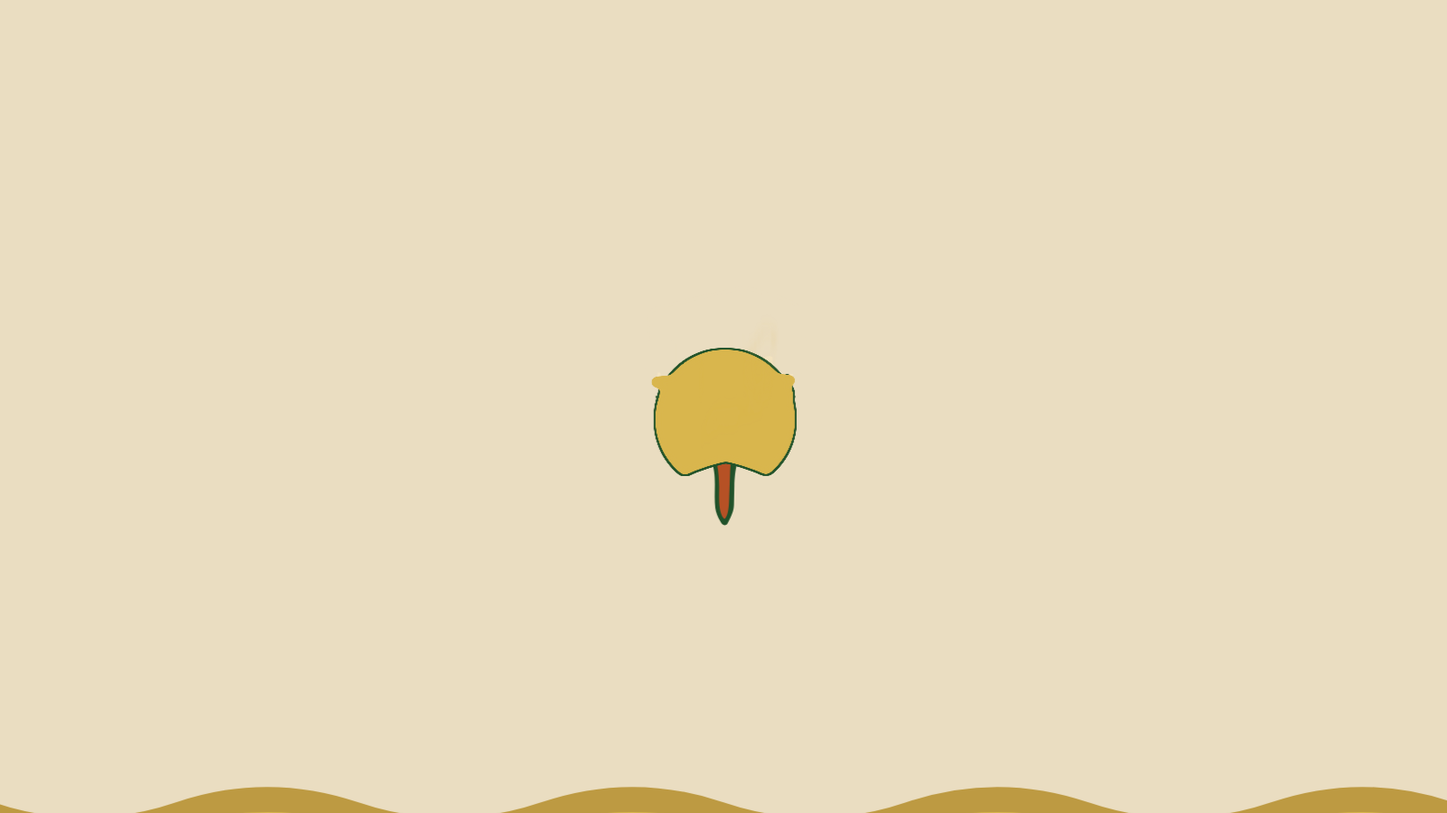
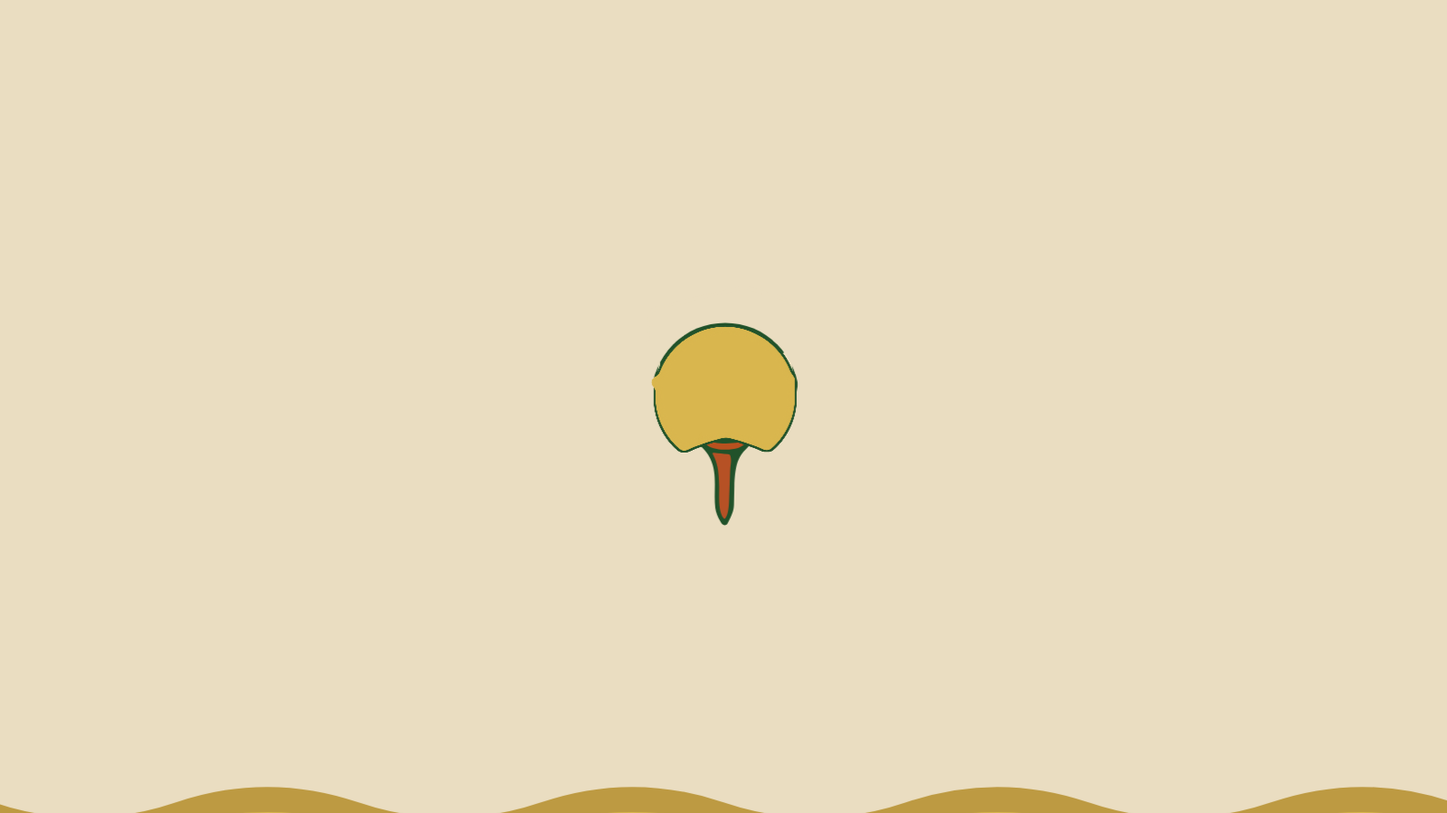
GSAP intro v4.3: white streaks fixed — ball-guard masks on the erasers
The pat-eraser band and sparkle covers could paint over the ball's green
outline before the butter front arrived, flashing cream arcs on the
shoulders during the melt. Both layers now use masks with a black
ball-guard circle so they can never touch the ball's ring.

Claude-Session: https://claude.ai/code/session_01XoixdVZHUDRa8j4FLVb79L

Changed region(s): [[0.4375, 0.3733, 0.5625, 0.5911]]

diff --git a/gsap/intro.html b/gsap/intro.html
@@ -36,9 +36,14 @@
     <clipPath id="coatClip">
       <path id="coatWave" d="M1520 400 H1968 V1128 Q1932 1146 1896 1136 L1834 1106 Q1788 1088 1744 1078 Q1700 1088 1654 1106 L1592 1136 Q1556 1146 1520 1128 Z"/>
     </clipPath>
-    <clipPath id="eraserClip">
-      <rect id="eraserRect" x="1520" y="740" width="440" height="0"/>
-    </clipPath>
+    <mask id="eraserMask">
+      <rect id="eraserRect" x="1520" y="740" width="440" height="0" fill="white"/>
+      <circle cx="1742.1" cy="1041.7" r="202" fill="black"/>
+    </mask>
+    <mask id="ballGuard">
+      <rect x="1500" y="700" width="480" height="380" fill="white"/>
+      <circle cx="1742.1" cy="1041.7" r="202" fill="black"/>
+    </mask>
     <clipPath id="sceneClip"><rect x="0" y="0" width="1600" height="900"/></clipPath>
   </defs>
   <g clip-path="url(#sceneClip)">
@@ -62,7 +67,7 @@
     <g transform="translate(105,22.3) scale(0.4)">
       <g id="staticA">
         <path d="M 1589.9157,790.3141000000002 C 1651.6502,775.7205000000001 1714.7911,761.2675000000002 1775.1195,746.5333 C 1780.452,745.2560000000001 1784.7252,744.2403000000002 1788.737,743.8849000000001 C 1796.2997,743.1895000000001 1801.6951,743.6431000000001 1809.1755,745.4553000000001 C 1829.6292,750.3462000000001 1854.1256,758.9972000000001 1876.0202,766.0337000000001 C 1889.6411,770.5345000000001 1903.1463,775.2176000000001 1916.2001,779.916 C 1921.2001,781.7152000000001 1925.9838,783.5274000000001 1930.108,786.1701000000002 C 1941.9647,794.4357000000001 1943.9614,807.5354000000001 1944.0825,816.0501000000002 L 1944.0833,885.8003000000001 C 1943.1513,897.8115000000001 1937.734,907.0703000000001 1925.8021,912.3317000000001 C 1936.9063,938.9419000000001 1941.7484,967.3612 1941.6022,997.2217 C 1940.1216,1044.2161 1922.0534,1089.1966000000002 1878.2725,1125.5189 C 1858.8662,1141.4139 1839.2726,1153.6862 1819.7725,1160.2064 C 1816.5794,1161.363 1815.5557,1162.0974 1814.1475,1165.2691 C 1810.7872,1173.7884000000001 1805.61,1179.7899000000002 1796.6633,1188.4259000000002 C 1785.4974,1199.2684000000002 1778.4077,1212.8654000000001 1774.0225,1228.5514 C 1770.0064,1243.6919 1767.4911,1267.0043 1767.1791,1287.0514 L 1766.054,1339.4578000000001 C 1765.7212,1347.2976 1764.6369,1353.4618 1762.7258,1358.6773 C 1758.5116,1370.4456 1753.8386,1381.0415 1748.6631,1389.8961000000002 C 1746.4303,1393.5927000000001 1743.2476,1394.8757 1739.9911,1394.6773 C 1736.0493,1394.3765 1733.0919,1391.7029000000002 1729.96,1386.2867 C 1721.9083,1372.2912000000001 1716.3865,1359.2504000000001 1714.9598,1347.7548000000002 C 1709.4923,1303.4640000000002 1721.6351,1256.3882 1701.741,1213.5973000000001 C 1696.1618,1201.7958 1691.8756,1196.2271 1680.366,1183.4097000000002 C 1675.6228,1178.1291 1671.0786,1172.1817 1667.5574,1164.4371 C 1666.2915,1161.2459000000001 1664.2412,1160.5035 1660.9127,1159.3161 C 1631.5529,1149.0754000000002 1606.8975,1131.7117 1586.2881,1108.221 C 1561.7086,1079.4230000000002 1547.2434,1042.9102 1544.7572,1001.0655000000002 C 1543.972,980.2563000000001 1546.2918,959.5620000000001 1552.2568,939.0029000000001 C 1552.6329,937.5388000000002 1553.257,935.6668000000001 1551.2255,934.8779000000001 C 1543.5068,931.5690000000001 1536.9046,927.1098000000001 1533.6006,918.3777000000001 C 1531.893,913.8981000000001 1530.9564,909.7794000000001 1530.9054,903.6588000000002 C 1530.7177,879.089 1531.1166,852.1984000000001 1531.4678,826.8552000000001 C 1531.4706,808.2296000000001 1547.9295,800.1690000000001 1563.5925,796.4928000000001 L 1589.9157,790.3141000000002" fill-rule="evenodd" fill="#21522a"/>
-        <g clip-path="url(#eraserClip)"><g id="eraser" fill="#EADDC1" stroke="#EADDC1" stroke-width="9"><path d="M 1589.9157,790.3141000000002 C 1651.6502,775.7205000000001 1714.7911,761.2675000000002 1775.1195,746.5333 C 1780.452,745.2560000000001 1784.7252,744.2403000000002 1788.737,743.8849000000001 C 1796.2997,743.1895000000001 1801.6951,743.6431000000001 1809.1755,745.4553000000001 C 1829.6292,750.3462000000001 1854.1256,758.9972000000001 1876.0202,766.0337000000001 C 1889.6411,770.5345000000001 1903.1463,775.2176000000001 1916.2001,779.916 C 1921.2001,781.7152000000001 1925.9838,783.5274000000001 1930.108,786.1701000000002 C 1941.9647,794.4357000000001 1943.9614,807.5354000000001 1944.0825,816.0501000000002 L 1944.0833,885.8003000000001 C 1943.1513,897.8115000000001 1937.734,907.0703000000001 1925.8021,912.3317000000001 C 1936.9063,938.9419000000001 1941.7484,967.3612 1941.6022,997.2217 C 1940.1216,1044.2161 1922.0534,1089.1966000000002 1878.2725,1125.5189 C 1858.8662,1141.4139 1839.2726,1153.6862 1819.7725,1160.2064 C 1816.5794,1161.363 1815.5557,1162.0974 1814.1475,1165.2691 C 1810.7872,1173.7884000000001 1805.61,1179.7899000000002 1796.6633,1188.4259000000002 C 1785.4974,1199.2684000000002 1778.4077,1212.8654000000001 1774.0225,1228.5514 C 1770.0064,1243.6919 1767.4911,1267.0043 1767.1791,1287.0514 L 1766.054,1339.4578000000001 C 1765.7212,1347.2976 1764.6369,1353.4618 1762.7258,1358.6773 C 1758.5116,1370.4456 1753.8386,1381.0415 1748.6631,1389.8961000000002 C 1746.4303,1393.5927000000001 1743.2476,1394.8757 1739.9911,1394.6773 C 1736.0493,1394.3765 1733.0919,1391.7029000000002 1729.96,1386.2867 C 1721.9083,1372.2912000000001 1716.3865,1359.2504000000001 1714.9598,1347.7548000000002 C 1709.4923,1303.4640000000002 1721.6351,1256.3882 1701.741,1213.5973000000001 C 1696.1618,1201.7958 1691.8756,1196.2271 1680.366,1183.4097000000002 C 1675.6228,1178.1291 1671.0786,1172.1817 1667.5574,1164.4371 C 1666.2915,1161.2459000000001 1664.2412,1160.5035 1660.9127,1159.3161 C 1631.5529,1149.0754000000002 1606.8975,1131.7117 1586.2881,1108.221 C 1561.7086,1079.4230000000002 1547.2434,1042.9102 1544.7572,1001.0655000000002 C 1543.972,980.2563000000001 1546.2918,959.5620000000001 1552.2568,939.0029000000001 C 1552.6329,937.5388000000002 1553.257,935.6668000000001 1551.2255,934.8779000000001 C 1543.5068,931.5690000000001 1536.9046,927.1098000000001 1533.6006,918.3777000000001 C 1531.893,913.8981000000001 1530.9564,909.7794000000001 1530.9054,903.6588000000002 C 1530.7177,879.089 1531.1166,852.1984000000001 1531.4678,826.8552000000001 C 1531.4706,808.2296000000001 1547.9295,800.1690000000001 1563.5925,796.4928000000001 L 1589.9157,790.3141000000002" fill-rule="evenodd"/></g></g>
+        <g mask="url(#eraserMask)"><g id="eraser" fill="#EADDC1" stroke="#EADDC1" stroke-width="9"><path d="M 1589.9157,790.3141000000002 C 1651.6502,775.7205000000001 1714.7911,761.2675000000002 1775.1195,746.5333 C 1780.452,745.2560000000001 1784.7252,744.2403000000002 1788.737,743.8849000000001 C 1796.2997,743.1895000000001 1801.6951,743.6431000000001 1809.1755,745.4553000000001 C 1829.6292,750.3462000000001 1854.1256,758.9972000000001 1876.0202,766.0337000000001 C 1889.6411,770.5345000000001 1903.1463,775.2176000000001 1916.2001,779.916 C 1921.2001,781.7152000000001 1925.9838,783.5274000000001 1930.108,786.1701000000002 C 1941.9647,794.4357000000001 1943.9614,807.5354000000001 1944.0825,816.0501000000002 L 1944.0833,885.8003000000001 C 1943.1513,897.8115000000001 1937.734,907.0703000000001 1925.8021,912.3317000000001 C 1936.9063,938.9419000000001 1941.7484,967.3612 1941.6022,997.2217 C 1940.1216,1044.2161 1922.0534,1089.1966000000002 1878.2725,1125.5189 C 1858.8662,1141.4139 1839.2726,1153.6862 1819.7725,1160.2064 C 1816.5794,1161.363 1815.5557,1162.0974 1814.1475,1165.2691 C 1810.7872,1173.7884000000001 1805.61,1179.7899000000002 1796.6633,1188.4259000000002 C 1785.4974,1199.2684000000002 1778.4077,1212.8654000000001 1774.0225,1228.5514 C 1770.0064,1243.6919 1767.4911,1267.0043 1767.1791,1287.0514 L 1766.054,1339.4578000000001 C 1765.7212,1347.2976 1764.6369,1353.4618 1762.7258,1358.6773 C 1758.5116,1370.4456 1753.8386,1381.0415 1748.6631,1389.8961000000002 C 1746.4303,1393.5927000000001 1743.2476,1394.8757 1739.9911,1394.6773 C 1736.0493,1394.3765 1733.0919,1391.7029000000002 1729.96,1386.2867 C 1721.9083,1372.2912000000001 1716.3865,1359.2504000000001 1714.9598,1347.7548000000002 C 1709.4923,1303.4640000000002 1721.6351,1256.3882 1701.741,1213.5973000000001 C 1696.1618,1201.7958 1691.8756,1196.2271 1680.366,1183.4097000000002 C 1675.6228,1178.1291 1671.0786,1172.1817 1667.5574,1164.4371 C 1666.2915,1161.2459000000001 1664.2412,1160.5035 1660.9127,1159.3161 C 1631.5529,1149.0754000000002 1606.8975,1131.7117 1586.2881,1108.221 C 1561.7086,1079.4230000000002 1547.2434,1042.9102 1544.7572,1001.0655000000002 C 1543.972,980.2563000000001 1546.2918,959.5620000000001 1552.2568,939.0029000000001 C 1552.6329,937.5388000000002 1553.257,935.6668000000001 1551.2255,934.8779000000001 C 1543.5068,931.5690000000001 1536.9046,927.1098000000001 1533.6006,918.3777000000001 C 1531.893,913.8981000000001 1530.9564,909.7794000000001 1530.9054,903.6588000000002 C 1530.7177,879.089 1531.1166,852.1984000000001 1531.4678,826.8552000000001 C 1531.4706,808.2296000000001 1547.9295,800.1690000000001 1563.5925,796.4928000000001 L 1589.9157,790.3141000000002" fill-rule="evenodd"/></g></g>
         <path d="M 1563.8427,947.7401000000001 C 1563.9613,950.7091000000001 1563.2437,957.1421000000001 1562.7804,963.7199000000002 C 1561.9445,977.1824000000001 1564.9883,988.7509000000001 1577.4605,991.6267000000001 C 1590.4948,994.1767000000001 1596.3969,985.3102000000001 1596.9533,973.7043000000001 C 1597.2423,968.2746000000001 1596.8611,963.8794000000001 1596.7655,960.0167000000001 C 1596.675,954.9418000000001 1600.9489,954.3788000000001 1604.6875,956.3603000000002 C 1609.4673,958.9565000000001 1614.5722,962.0177000000001 1619.3184,965.0513000000001 C 1623.7984,967.9154000000001 1628.1748,969.9671000000001 1630.4601,974.9558000000001 C 1636.3338,987.7798000000001 1626.0503,1008.5450000000001 1623.8609,1022.2204000000002 C 1621.9644,1034.334 1624.6791,1044.2402000000002 1632.0169,1050.3925000000002 C 1642.9391,1059.0734000000002 1655.5612,1054.5294000000001 1660.839,1044.6915000000001 C 1664.5873,1037.4657000000002 1663.9835,1028.2608 1663.1433,1020.2982000000002 C 1662.1594,1012.6577000000001 1661.1226,1009.2230000000002 1660.0504,1004.1266000000002 C 1658.9052,998.4397000000001 1662.9678,996.5921000000001 1667.8786,996.6267000000001 C 1684.7175,996.4796000000001 1681.2672,988.7742000000001 1687.4522,978.1255000000001 C 1689.2206,975.0817000000001 1692.0831,973.2950000000001 1695.7225,974.3603000000002 C 1700.2695,975.8485000000001 1701.1366,981.3800000000001 1701.4882,985.8916000000002 C 1702.1991,995.0087000000001 1700.1917,1003.7510000000001 1702.1449,1012.6107000000001 C 1704.1989,1023.7052000000001 1710.6525,1030.5327000000002 1719.1599,1032.2987 C 1728.6849,1033.8575 1735.2924,1029.8346000000001 1740.1602,1023.7205000000001 C 1748.1353,1012.0097000000001 1740.6128,997.6197000000001 1742.4578,984.3456000000001 C 1744.8242,969.0932000000001 1754.2389,960.2582000000001 1768.7653,956.4155000000001 C 1797.7771,948.7379000000001 1825.6176,940.9664000000001 1852.2868,932.9705000000001 C 1859.0913,930.9508000000001 1862.6032,930.6656000000002 1866.7243,931.3768000000001 C 1872.2279,932.4744000000001 1877.6149,936.0095000000001 1883.6929,935.6892000000001 C 1895.9868,934.6834000000001 1897.4171,922.2147000000001 1905.912,919.0484000000001 C 1911.4705,917.1617000000001 1914.3573,921.0993000000001 1915.9432,924.3923000000001 C 1921.2562,935.8615000000001 1924.0374,950.0960000000001 1925.9751,963.2995000000001 C 1928.069,978.0340000000001 1928.3814,992.7682000000001 1927.0534,1006.2373000000001 C 1926.3971,1011.7251000000001 1925.3214,1015.8561000000001 1923.8264,1019.0150000000001 C 1923.3455,1020.0692000000001 1922.2651,1021.3717000000001 1920.7721,1020.4873000000001 C 1919.9514,1019.9482 1920.0453,1019.0694000000001 1920.0689,1017.9563 C 1920.2797,1012.3159 1920.2091,1007.1906000000001 1919.9982,1001.9482000000002 C 1919.8848,999.7448 1919.3732,998.7841000000001 1918.2169,998.7136000000002 C 1916.5391,998.7107000000001 1915.3871,1000.0314000000001 1914.373,1002.2294 C 1911.0374,1009.3622000000001 1908.451,1018.4404000000001 1904.7166,1025.8077 C 1900.906,1033.2171 1894.8319,1036.5255000000002 1891.1228,1045.2613000000001 C 1888.0418,1052.4253 1886.2476,1058.5509000000002 1880.435,1064.949 C 1876.9035,1068.7829000000002 1873.4856,1071.5186 1868.8569,1075.0741 C 1860.7479,1081.2383 1852.9197,1087.6370000000002 1843.9666,1094.9024000000002 C 1842.3629,1096.1888000000001 1837.4939,1100.2423000000001 1833.3258,1100.8558 C 1824.9678,1101.8618000000001 1821.6227,1097.9766000000002 1811.2005,1103.2933 C 1806.0274,1106.0454 1802.6433,1108.8149 1798.8256,1112.4339 C 1793.2363,1117.8631 1787.4472,1121.6453000000001 1780.638,1124.1058 C 1770.7079,1127.9039000000002 1761.7876,1126.0178 1750.7313,1126.6371000000001 C 1743.9423,1127.286 1736.919,1130.9810000000002 1728.747,1132.3093000000001 C 1725.3643,1132.7546000000002 1722.4265,1132.4031 1718.2468,1130.7624 C 1711.9345,1128.2699000000002 1706.6531,1125.9183 1698.7467,1125.6059 C 1693.9891,1125.4302000000002 1688.2931,1126.7077000000002 1684.403,1128.1372000000001 C 1679.0151,1130.2255 1675.4346,1132.5908000000002 1668.5595,1132.919 C 1659.5702,1133.0483000000002 1647.8396,1127.3268 1639.1215,1121.9968000000001 C 1635.5293,1119.9556000000002 1632.7155,1118.5125 1629.6528,1117.8251 C 1625.798,1116.9021000000002 1623.4483,1118.4807 1625.7623,1122.3251 C 1627.4971,1125.1371000000001 1625.1126,1125.4721000000002 1622.481,1123.8252000000002 C 1586.6802,1101.8173000000002 1566.6296,1060.3288000000002 1559.1056,1019.9496000000001 C 1555.1408,997.4020000000002 1555.3659,975.7918000000002 1560.1051,953.6985000000001 C 1560.4021,952.3124000000001 1561.149,948.2798000000001 1561.8986,946.9850000000001 C 1562.5208,945.8678000000001 1563.7859,945.8369000000001 1563.8427,947.7401000000001" fill-rule="evenodd" fill="#f3e4c3"/>
         <path d="M 1664.8947,1146.2297 C 1663.6774,1148.5912 1657.6946,1147.1705000000002 1651.5326,1144.1054000000001 C 1645.3709,1141.0403000000001 1641.3633,1137.4916 1642.5808,1135.13 C 1643.7984,1132.7685000000001 1649.7805,1133.3385 1655.9423,1136.4034000000001 C 1662.1041,1139.4685000000002 1666.112,1143.8681000000001 1664.8947,1146.2297" fill-rule="evenodd" fill="#f6e2c8"/>
 <path d="M 1711.8672,1145.0961000000002 C 1711.3466,1147.7842 1705.2644,1148.9518 1698.2824,1147.7037 C 1691.3007,1146.4553 1686.0628,1143.2640000000001 1686.5836,1140.5754000000002 C 1687.1043,1137.8873 1693.1863,1136.7197 1700.1683,1137.9678000000001 C 1707.15,1139.2165 1712.388,1142.4077000000002 1711.8672,1145.0961000000002" fill-rule="evenodd" fill="#f6e2c8"/>
@@ -95,7 +100,7 @@
 <path d="M 1760.653,1114.9862 C 1759.7319,1112.5087 1764.159,1108.4917 1770.5413,1106.0142 C 1776.9237,1103.5371 1782.8439,1103.5371 1783.7649,1106.0148000000002 C 1784.6858,1108.4923000000001 1780.2584,1112.509 1773.8762,1114.9868000000001 C 1767.494,1117.4639000000002 1761.5735,1117.4639000000002 1760.653,1114.9862" fill-rule="evenodd" fill="#244e29"/>
         <path d="M 1711.9911,1196.1174 C 1709.0892,1195.8756 1707.1549,1195.392 1707.6386,1198.2939000000001 C 1707.8803,1199.5028000000002 1708.3638,1200.7118 1709.0892,1201.9208 C 1715.1344,1213.7693000000002 1718.0363,1222.2325 1720.9378,1235.2900000000002 C 1723.8394,1248.8314 1725.0486,1269.8684 1725.5322,1285.1021 C 1726.2575,1305.8976 1721.4214,1358.1276 1737.8643,1375.7793000000001 C 1739.0733,1376.9885000000002 1740.524,1377.9557000000002 1741.9749,1376.5049000000001 C 1749.2289,1368.7669 1751.6472,1349.9060000000002 1752.6144,1332.0126 C 1753.8233,1302.9958000000001 1754.5487,1273.7371 1755.7577,1244.4788 C 1756.7252,1228.2776000000001 1759.3849,1220.0563000000002 1757.2088,1208.4496000000001 C 1755.7577,1202.1626 1755.0324,1199.9864000000002 1748.987,1199.7446 C 1735.446,1199.0193000000002 1724.8068,1197.3267 1711.9911,1196.1174" fill-rule="evenodd" fill="#b65125"/>
 <path d="M 1684.9434,1162.7400000000002 C 1686.1527,1169.7524 1692.6814,1175.7976 1698.7266,1179.183 C 1717.1036,1189.0969 1756.5182,1190.064 1777.0717,1183.0517 C 1786.0184,1180.1502 1796.8997,1173.1378 1797.6251,1165.1580000000001 C 1794.9655,1165.4001 1769.8175,1170.236 1743.7025,1170.7196000000001 C 1720.7308,1170.7196000000001 1706.4644,1167.5762 1684.9434,1162.7400000000002" fill-rule="evenodd" fill="#b9511f"/>
-        <g id="hornCover" fill="#EADDC1" opacity="0">
+        <g id="hornCover" fill="#EADDC1" opacity="0" mask="url(#ballGuard)">
           <rect x="1872" y="876" width="92" height="104" rx="14"/>
           <rect x="1522" y="886" width="84" height="90" rx="14"/>
         </g>

diff --git a/gsap/intro_artifact.html b/gsap/intro_artifact.html
@@ -29,9 +29,14 @@
     <clipPath id="coatClip">
       <path id="coatWave" d="M1520 400 H1968 V1128 Q1932 1146 1896 1136 L1834 1106 Q1788 1088 1744 1078 Q1700 1088 1654 1106 L1592 1136 Q1556 1146 1520 1128 Z"/>
     </clipPath>
-    <clipPath id="eraserClip">
-      <rect id="eraserRect" x="1520" y="740" width="440" height="0"/>
-    </clipPath>
+    <mask id="eraserMask">
+      <rect id="eraserRect" x="1520" y="740" width="440" height="0" fill="white"/>
+      <circle cx="1742.1" cy="1041.7" r="202" fill="black"/>
+    </mask>
+    <mask id="ballGuard">
+      <rect x="1500" y="700" width="480" height="380" fill="white"/>
+      <circle cx="1742.1" cy="1041.7" r="202" fill="black"/>
+    </mask>
     <clipPath id="sceneClip"><rect x="0" y="0" width="1600" height="900"/></clipPath>
   </defs>
   <g clip-path="url(#sceneClip)">
@@ -55,7 +60,7 @@
     <g transform="translate(105,22.3) scale(0.4)">
       <g id="staticA">
         <path d="M 1589.9157,790.3141000000002 C 1651.6502,775.7205000000001 1714.7911,761.2675000000002 1775.1195,746.5333 C 1780.452,745.2560000000001 1784.7252,744.2403000000002 1788.737,743.8849000000001 C 1796.2997,743.1895000000001 1801.6951,743.6431000000001 1809.1755,745.4553000000001 C 1829.6292,750.3462000000001 1854.1256,758.9972000000001 1876.0202,766.0337000000001 C 1889.6411,770.5345000000001 1903.1463,775.2176000000001 1916.2001,779.916 C 1921.2001,781.7152000000001 1925.9838,783.5274000000001 1930.108,786.1701000000002 C 1941.9647,794.4357000000001 1943.9614,807.5354000000001 1944.0825,816.0501000000002 L 1944.0833,885.8003000000001 C 1943.1513,897.8115000000001 1937.734,907.0703000000001 1925.8021,912.3317000000001 C 1936.9063,938.9419000000001 1941.7484,967.3612 1941.6022,997.2217 C 1940.1216,1044.2161 1922.0534,1089.1966000000002 1878.2725,1125.5189 C 1858.8662,1141.4139 1839.2726,1153.6862 1819.7725,1160.2064 C 1816.5794,1161.363 1815.5557,1162.0974 1814.1475,1165.2691 C 1810.7872,1173.7884000000001 1805.61,1179.7899000000002 1796.6633,1188.4259000000002 C 1785.4974,1199.2684000000002 1778.4077,1212.8654000000001 1774.0225,1228.5514 C 1770.0064,1243.6919 1767.4911,1267.0043 1767.1791,1287.0514 L 1766.054,1339.4578000000001 C 1765.7212,1347.2976 1764.6369,1353.4618 1762.7258,1358.6773 C 1758.5116,1370.4456 1753.8386,1381.0415 1748.6631,1389.8961000000002 C 1746.4303,1393.5927000000001 1743.2476,1394.8757 1739.9911,1394.6773 C 1736.0493,1394.3765 1733.0919,1391.7029000000002 1729.96,1386.2867 C 1721.9083,1372.2912000000001 1716.3865,1359.2504000000001 1714.9598,1347.7548000000002 C 1709.4923,1303.4640000000002 1721.6351,1256.3882 1701.741,1213.5973000000001 C 1696.1618,1201.7958 1691.8756,1196.2271 1680.366,1183.4097000000002 C 1675.6228,1178.1291 1671.0786,1172.1817 1667.5574,1164.4371 C 1666.2915,1161.2459000000001 1664.2412,1160.5035 1660.9127,1159.3161 C 1631.5529,1149.0754000000002 1606.8975,1131.7117 1586.2881,1108.221 C 1561.7086,1079.4230000000002 1547.2434,1042.9102 1544.7572,1001.0655000000002 C 1543.972,980.2563000000001 1546.2918,959.5620000000001 1552.2568,939.0029000000001 C 1552.6329,937.5388000000002 1553.257,935.6668000000001 1551.2255,934.8779000000001 C 1543.5068,931.5690000000001 1536.9046,927.1098000000001 1533.6006,918.3777000000001 C 1531.893,913.8981000000001 1530.9564,909.7794000000001 1530.9054,903.6588000000002 C 1530.7177,879.089 1531.1166,852.1984000000001 1531.4678,826.8552000000001 C 1531.4706,808.2296000000001 1547.9295,800.1690000000001 1563.5925,796.4928000000001 L 1589.9157,790.3141000000002" fill-rule="evenodd" fill="#21522a"/>
-        <g clip-path="url(#eraserClip)"><g id="eraser" fill="#EADDC1" stroke="#EADDC1" stroke-width="9"><path d="M 1589.9157,790.3141000000002 C 1651.6502,775.7205000000001 1714.7911,761.2675000000002 1775.1195,746.5333 C 1780.452,745.2560000000001 1784.7252,744.2403000000002 1788.737,743.8849000000001 C 1796.2997,743.1895000000001 1801.6951,743.6431000000001 1809.1755,745.4553000000001 C 1829.6292,750.3462000000001 1854.1256,758.9972000000001 1876.0202,766.0337000000001 C 1889.6411,770.5345000000001 1903.1463,775.2176000000001 1916.2001,779.916 C 1921.2001,781.7152000000001 1925.9838,783.5274000000001 1930.108,786.1701000000002 C 1941.9647,794.4357000000001 1943.9614,807.5354000000001 1944.0825,816.0501000000002 L 1944.0833,885.8003000000001 C 1943.1513,897.8115000000001 1937.734,907.0703000000001 1925.8021,912.3317000000001 C 1936.9063,938.9419000000001 1941.7484,967.3612 1941.6022,997.2217 C 1940.1216,1044.2161 1922.0534,1089.1966000000002 1878.2725,1125.5189 C 1858.8662,1141.4139 1839.2726,1153.6862 1819.7725,1160.2064 C 1816.5794,1161.363 1815.5557,1162.0974 1814.1475,1165.2691 C 1810.7872,1173.7884000000001 1805.61,1179.7899000000002 1796.6633,1188.4259000000002 C 1785.4974,1199.2684000000002 1778.4077,1212.8654000000001 1774.0225,1228.5514 C 1770.0064,1243.6919 1767.4911,1267.0043 1767.1791,1287.0514 L 1766.054,1339.4578000000001 C 1765.7212,1347.2976 1764.6369,1353.4618 1762.7258,1358.6773 C 1758.5116,1370.4456 1753.8386,1381.0415 1748.6631,1389.8961000000002 C 1746.4303,1393.5927000000001 1743.2476,1394.8757 1739.9911,1394.6773 C 1736.0493,1394.3765 1733.0919,1391.7029000000002 1729.96,1386.2867 C 1721.9083,1372.2912000000001 1716.3865,1359.2504000000001 1714.9598,1347.7548000000002 C 1709.4923,1303.4640000000002 1721.6351,1256.3882 1701.741,1213.5973000000001 C 1696.1618,1201.7958 1691.8756,1196.2271 1680.366,1183.4097000000002 C 1675.6228,1178.1291 1671.0786,1172.1817 1667.5574,1164.4371 C 1666.2915,1161.2459000000001 1664.2412,1160.5035 1660.9127,1159.3161 C 1631.5529,1149.0754000000002 1606.8975,1131.7117 1586.2881,1108.221 C 1561.7086,1079.4230000000002 1547.2434,1042.9102 1544.7572,1001.0655000000002 C 1543.972,980.2563000000001 1546.2918,959.5620000000001 1552.2568,939.0029000000001 C 1552.6329,937.5388000000002 1553.257,935.6668000000001 1551.2255,934.8779000000001 C 1543.5068,931.5690000000001 1536.9046,927.1098000000001 1533.6006,918.3777000000001 C 1531.893,913.8981000000001 1530.9564,909.7794000000001 1530.9054,903.6588000000002 C 1530.7177,879.089 1531.1166,852.1984000000001 1531.4678,826.8552000000001 C 1531.4706,808.2296000000001 1547.9295,800.1690000000001 1563.5925,796.4928000000001 L 1589.9157,790.3141000000002" fill-rule="evenodd"/></g></g>
+        <g mask="url(#eraserMask)"><g id="eraser" fill="#EADDC1" stroke="#EADDC1" stroke-width="9"><path d="M 1589.9157,790.3141000000002 C 1651.6502,775.7205000000001 1714.7911,761.2675000000002 1775.1195,746.5333 C 1780.452,745.2560000000001 1784.7252,744.2403000000002 1788.737,743.8849000000001 C 1796.2997,743.1895000000001 1801.6951,743.6431000000001 1809.1755,745.4553000000001 C 1829.6292,750.3462000000001 1854.1256,758.9972000000001 1876.0202,766.0337000000001 C 1889.6411,770.5345000000001 1903.1463,775.2176000000001 1916.2001,779.916 C 1921.2001,781.7152000000001 1925.9838,783.5274000000001 1930.108,786.1701000000002 C 1941.9647,794.4357000000001 1943.9614,807.5354000000001 1944.0825,816.0501000000002 L 1944.0833,885.8003000000001 C 1943.1513,897.8115000000001 1937.734,907.0703000000001 1925.8021,912.3317000000001 C 1936.9063,938.9419000000001 1941.7484,967.3612 1941.6022,997.2217 C 1940.1216,1044.2161 1922.0534,1089.1966000000002 1878.2725,1125.5189 C 1858.8662,1141.4139 1839.2726,1153.6862 1819.7725,1160.2064 C 1816.5794,1161.363 1815.5557,1162.0974 1814.1475,1165.2691 C 1810.7872,1173.7884000000001 1805.61,1179.7899000000002 1796.6633,1188.4259000000002 C 1785.4974,1199.2684000000002 1778.4077,1212.8654000000001 1774.0225,1228.5514 C 1770.0064,1243.6919 1767.4911,1267.0043 1767.1791,1287.0514 L 1766.054,1339.4578000000001 C 1765.7212,1347.2976 1764.6369,1353.4618 1762.7258,1358.6773 C 1758.5116,1370.4456 1753.8386,1381.0415 1748.6631,1389.8961000000002 C 1746.4303,1393.5927000000001 1743.2476,1394.8757 1739.9911,1394.6773 C 1736.0493,1394.3765 1733.0919,1391.7029000000002 1729.96,1386.2867 C 1721.9083,1372.2912000000001 1716.3865,1359.2504000000001 1714.9598,1347.7548000000002 C 1709.4923,1303.4640000000002 1721.6351,1256.3882 1701.741,1213.5973000000001 C 1696.1618,1201.7958 1691.8756,1196.2271 1680.366,1183.4097000000002 C 1675.6228,1178.1291 1671.0786,1172.1817 1667.5574,1164.4371 C 1666.2915,1161.2459000000001 1664.2412,1160.5035 1660.9127,1159.3161 C 1631.5529,1149.0754000000002 1606.8975,1131.7117 1586.2881,1108.221 C 1561.7086,1079.4230000000002 1547.2434,1042.9102 1544.7572,1001.0655000000002 C 1543.972,980.2563000000001 1546.2918,959.5620000000001 1552.2568,939.0029000000001 C 1552.6329,937.5388000000002 1553.257,935.6668000000001 1551.2255,934.8779000000001 C 1543.5068,931.5690000000001 1536.9046,927.1098000000001 1533.6006,918.3777000000001 C 1531.893,913.8981000000001 1530.9564,909.7794000000001 1530.9054,903.6588000000002 C 1530.7177,879.089 1531.1166,852.1984000000001 1531.4678,826.8552000000001 C 1531.4706,808.2296000000001 1547.9295,800.1690000000001 1563.5925,796.4928000000001 L 1589.9157,790.3141000000002" fill-rule="evenodd"/></g></g>
         <path d="M 1563.8427,947.7401000000001 C 1563.9613,950.7091000000001 1563.2437,957.1421000000001 1562.7804,963.7199000000002 C 1561.9445,977.1824000000001 1564.9883,988.7509000000001 1577.4605,991.6267000000001 C 1590.4948,994.1767000000001 1596.3969,985.3102000000001 1596.9533,973.7043000000001 C 1597.2423,968.2746000000001 1596.8611,963.8794000000001 1596.7655,960.0167000000001 C 1596.675,954.9418000000001 1600.9489,954.3788000000001 1604.6875,956.3603000000002 C 1609.4673,958.9565000000001 1614.5722,962.0177000000001 1619.3184,965.0513000000001 C 1623.7984,967.9154000000001 1628.1748,969.9671000000001 1630.4601,974.9558000000001 C 1636.3338,987.7798000000001 1626.0503,1008.5450000000001 1623.8609,1022.2204000000002 C 1621.9644,1034.334 1624.6791,1044.2402000000002 1632.0169,1050.3925000000002 C 1642.9391,1059.0734000000002 1655.5612,1054.5294000000001 1660.839,1044.6915000000001 C 1664.5873,1037.4657000000002 1663.9835,1028.2608 1663.1433,1020.2982000000002 C 1662.1594,1012.6577000000001 1661.1226,1009.2230000000002 1660.0504,1004.1266000000002 C 1658.9052,998.4397000000001 1662.9678,996.5921000000001 1667.8786,996.6267000000001 C 1684.7175,996.4796000000001 1681.2672,988.7742000000001 1687.4522,978.1255000000001 C 1689.2206,975.0817000000001 1692.0831,973.2950000000001 1695.7225,974.3603000000002 C 1700.2695,975.8485000000001 1701.1366,981.3800000000001 1701.4882,985.8916000000002 C 1702.1991,995.0087000000001 1700.1917,1003.7510000000001 1702.1449,1012.6107000000001 C 1704.1989,1023.7052000000001 1710.6525,1030.5327000000002 1719.1599,1032.2987 C 1728.6849,1033.8575 1735.2924,1029.8346000000001 1740.1602,1023.7205000000001 C 1748.1353,1012.0097000000001 1740.6128,997.6197000000001 1742.4578,984.3456000000001 C 1744.8242,969.0932000000001 1754.2389,960.2582000000001 1768.7653,956.4155000000001 C 1797.7771,948.7379000000001 1825.6176,940.9664000000001 1852.2868,932.9705000000001 C 1859.0913,930.9508000000001 1862.6032,930.6656000000002 1866.7243,931.3768000000001 C 1872.2279,932.4744000000001 1877.6149,936.0095000000001 1883.6929,935.6892000000001 C 1895.9868,934.6834000000001 1897.4171,922.2147000000001 1905.912,919.0484000000001 C 1911.4705,917.1617000000001 1914.3573,921.0993000000001 1915.9432,924.3923000000001 C 1921.2562,935.8615000000001 1924.0374,950.0960000000001 1925.9751,963.2995000000001 C 1928.069,978.0340000000001 1928.3814,992.7682000000001 1927.0534,1006.2373000000001 C 1926.3971,1011.7251000000001 1925.3214,1015.8561000000001 1923.8264,1019.0150000000001 C 1923.3455,1020.0692000000001 1922.2651,1021.3717000000001 1920.7721,1020.4873000000001 C 1919.9514,1019.9482 1920.0453,1019.0694000000001 1920.0689,1017.9563 C 1920.2797,1012.3159 1920.2091,1007.1906000000001 1919.9982,1001.9482000000002 C 1919.8848,999.7448 1919.3732,998.7841000000001 1918.2169,998.7136000000002 C 1916.5391,998.7107000000001 1915.3871,1000.0314000000001 1914.373,1002.2294 C 1911.0374,1009.3622000000001 1908.451,1018.4404000000001 1904.7166,1025.8077 C 1900.906,1033.2171 1894.8319,1036.5255000000002 1891.1228,1045.2613000000001 C 1888.0418,1052.4253 1886.2476,1058.5509000000002 1880.435,1064.949 C 1876.9035,1068.7829000000002 1873.4856,1071.5186 1868.8569,1075.0741 C 1860.7479,1081.2383 1852.9197,1087.6370000000002 1843.9666,1094.9024000000002 C 1842.3629,1096.1888000000001 1837.4939,1100.2423000000001 1833.3258,1100.8558 C 1824.9678,1101.8618000000001 1821.6227,1097.9766000000002 1811.2005,1103.2933 C 1806.0274,1106.0454 1802.6433,1108.8149 1798.8256,1112.4339 C 1793.2363,1117.8631 1787.4472,1121.6453000000001 1780.638,1124.1058 C 1770.7079,1127.9039000000002 1761.7876,1126.0178 1750.7313,1126.6371000000001 C 1743.9423,1127.286 1736.919,1130.9810000000002 1728.747,1132.3093000000001 C 1725.3643,1132.7546000000002 1722.4265,1132.4031 1718.2468,1130.7624 C 1711.9345,1128.2699000000002 1706.6531,1125.9183 1698.7467,1125.6059 C 1693.9891,1125.4302000000002 1688.2931,1126.7077000000002 1684.403,1128.1372000000001 C 1679.0151,1130.2255 1675.4346,1132.5908000000002 1668.5595,1132.919 C 1659.5702,1133.0483000000002 1647.8396,1127.3268 1639.1215,1121.9968000000001 C 1635.5293,1119.9556000000002 1632.7155,1118.5125 1629.6528,1117.8251 C 1625.798,1116.9021000000002 1623.4483,1118.4807 1625.7623,1122.3251 C 1627.4971,1125.1371000000001 1625.1126,1125.4721000000002 1622.481,1123.8252000000002 C 1586.6802,1101.8173000000002 1566.6296,1060.3288000000002 1559.1056,1019.9496000000001 C 1555.1408,997.4020000000002 1555.3659,975.7918000000002 1560.1051,953.6985000000001 C 1560.4021,952.3124000000001 1561.149,948.2798000000001 1561.8986,946.9850000000001 C 1562.5208,945.8678000000001 1563.7859,945.8369000000001 1563.8427,947.7401000000001" fill-rule="evenodd" fill="#f3e4c3"/>
         <path d="M 1664.8947,1146.2297 C 1663.6774,1148.5912 1657.6946,1147.1705000000002 1651.5326,1144.1054000000001 C 1645.3709,1141.0403000000001 1641.3633,1137.4916 1642.5808,1135.13 C 1643.7984,1132.7685000000001 1649.7805,1133.3385 1655.9423,1136.4034000000001 C 1662.1041,1139.4685000000002 1666.112,1143.8681000000001 1664.8947,1146.2297" fill-rule="evenodd" fill="#f6e2c8"/>
 <path d="M 1711.8672,1145.0961000000002 C 1711.3466,1147.7842 1705.2644,1148.9518 1698.2824,1147.7037 C 1691.3007,1146.4553 1686.0628,1143.2640000000001 1686.5836,1140.5754000000002 C 1687.1043,1137.8873 1693.1863,1136.7197 1700.1683,1137.9678000000001 C 1707.15,1139.2165 1712.388,1142.4077000000002 1711.8672,1145.0961000000002" fill-rule="evenodd" fill="#f6e2c8"/>
@@ -88,7 +93,7 @@
 <path d="M 1760.653,1114.9862 C 1759.7319,1112.5087 1764.159,1108.4917 1770.5413,1106.0142 C 1776.9237,1103.5371 1782.8439,1103.5371 1783.7649,1106.0148000000002 C 1784.6858,1108.4923000000001 1780.2584,1112.509 1773.8762,1114.9868000000001 C 1767.494,1117.4639000000002 1761.5735,1117.4639000000002 1760.653,1114.9862" fill-rule="evenodd" fill="#244e29"/>
         <path d="M 1711.9911,1196.1174 C 1709.0892,1195.8756 1707.1549,1195.392 1707.6386,1198.2939000000001 C 1707.8803,1199.5028000000002 1708.3638,1200.7118 1709.0892,1201.9208 C 1715.1344,1213.7693000000002 1718.0363,1222.2325 1720.9378,1235.2900000000002 C 1723.8394,1248.8314 1725.0486,1269.8684 1725.5322,1285.1021 C 1726.2575,1305.8976 1721.4214,1358.1276 1737.8643,1375.7793000000001 C 1739.0733,1376.9885000000002 1740.524,1377.9557000000002 1741.9749,1376.5049000000001 C 1749.2289,1368.7669 1751.6472,1349.9060000000002 1752.6144,1332.0126 C 1753.8233,1302.9958000000001 1754.5487,1273.7371 1755.7577,1244.4788 C 1756.7252,1228.2776000000001 1759.3849,1220.0563000000002 1757.2088,1208.4496000000001 C 1755.7577,1202.1626 1755.0324,1199.9864000000002 1748.987,1199.7446 C 1735.446,1199.0193000000002 1724.8068,1197.3267 1711.9911,1196.1174" fill-rule="evenodd" fill="#b65125"/>
 <path d="M 1684.9434,1162.7400000000002 C 1686.1527,1169.7524 1692.6814,1175.7976 1698.7266,1179.183 C 1717.1036,1189.0969 1756.5182,1190.064 1777.0717,1183.0517 C 1786.0184,1180.1502 1796.8997,1173.1378 1797.6251,1165.1580000000001 C 1794.9655,1165.4001 1769.8175,1170.236 1743.7025,1170.7196000000001 C 1720.7308,1170.7196000000001 1706.4644,1167.5762 1684.9434,1162.7400000000002" fill-rule="evenodd" fill="#b9511f"/>
-        <g id="hornCover" fill="#EADDC1" opacity="0">
+        <g id="hornCover" fill="#EADDC1" opacity="0" mask="url(#ballGuard)">
           <rect x="1872" y="876" width="92" height="104" rx="14"/>
           <rect x="1522" y="886" width="84" height="90" rx="14"/>
         </g>

diff --git a/tools/build_gsap_intro.py b/tools/build_gsap_intro.py
@@ -99,9 +99,14 @@ html = f"""<!doctype html>
     <clipPath id="coatClip">
       <path id="coatWave" d="M1520 400 H1968 V1128 Q1932 1146 1896 1136 L1834 1106 Q1788 1088 1744 1078 Q1700 1088 1654 1106 L1592 1136 Q1556 1146 1520 1128 Z"/>
     </clipPath>
-    <clipPath id="eraserClip">
-      <rect id="eraserRect" x="1520" y="740" width="440" height="0"/>
-    </clipPath>
+    <mask id="eraserMask">
+      <rect id="eraserRect" x="1520" y="740" width="440" height="0" fill="white"/>
+      <circle cx="{BALL_CX}" cy="{BALL_CY}" r="202" fill="black"/>
+    </mask>
+    <mask id="ballGuard">
+      <rect x="1500" y="700" width="480" height="380" fill="white"/>
+      <circle cx="{BALL_CX}" cy="{BALL_CY}" r="202" fill="black"/>
+    </mask>
     <clipPath id="sceneClip"><rect x="0" y="0" width="1600" height="900"/></clipPath>
   </defs>
   <g clip-path="url(#sceneClip)">
@@ -125,12 +130,12 @@ html = f"""<!doctype html>
     <g transform="translate(105,22.3) scale(0.4)">
       <g id="staticA">
         {paths("sil")}
-        <g clip-path="url(#eraserClip)"><g id="eraser" fill="{CREAM}" stroke="{CREAM}" stroke-width="9">{paths("sil", keep_fill=False)}</g></g>
+        <g mask="url(#eraserMask)"><g id="eraser" fill="{CREAM}" stroke="{CREAM}" stroke-width="9">{paths("sil", keep_fill=False)}</g></g>
         {paths("ball")}
         {paths("dimples_cream")}
         {paths("dimples_green")}
         {paths("tee")}
-        <g id="hornCover" fill="{CREAM}" opacity="0">
+        <g id="hornCover" fill="{CREAM}" opacity="0" mask="url(#ballGuard)">
           <rect x="1872" y="876" width="92" height="104" rx="14"/>
           <rect x="1522" y="886" width="84" height="90" rx="14"/>
         </g>
